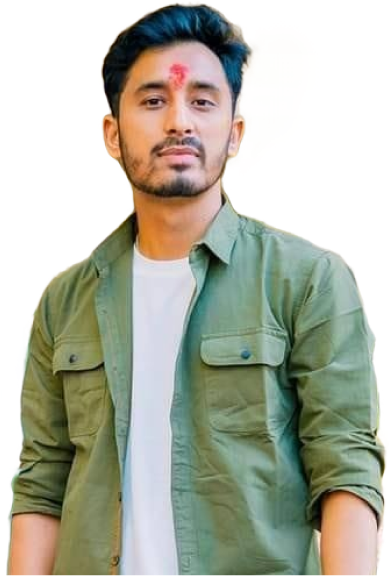
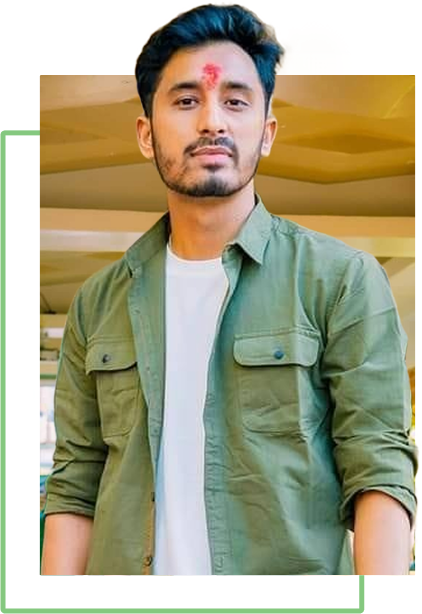
Fixed main image and navbar

diff --git a/src/sections/Navbar/Navbar.tsx b/src/sections/Navbar/Navbar.tsx
@@ -6,9 +6,11 @@ import NavLinks, { allCategory } from '@/sections/Navbar/NavLinks/NavLinks';
 import { HamburgerIcon } from '@/assets/svg';
 import useScreenSize from '@/hook/useScreenSize';
 import Link from 'next/link';
+import { useState } from 'react';
 
 export default function Navbar() {
 	const { isMobileScreen } = useScreenSize();
+	const [showMenu, setShowMenu] = useState(false);
 
 	return (
 		<div className="navbar z-20 w-screen justify-between bg-white text-neutral h-24">
@@ -27,20 +29,36 @@ export default function Navbar() {
 			</div>
 			{isMobileScreen ?
 				<div className="dropdown">
-					<label tabIndex={0} className="btn btn-ghost lg:hidden">
+					<button onClick={() => setShowMenu(!showMenu)} className="btn btn-ghost lg:hidden">
 						<HamburgerIcon />
-					</label>
-					<ul tabIndex={0} className="menu menu-sm dropdown-content bg-white absolute right-0 mt-3 z-20 p-2 shadow rounded-box w-52">
-						{allCategory?.map((category: any, i: number) => {
-							return <li><Link href={`/#${category?.toLowerCase()}`}>{category}</Link></li>
-						})}
-					</ul>
+					</button>
 				</div> :
 				<NavLinks />
 			}
 			{!isMobileScreen && <div className="pr-8">
 				<HireMeButton />
 			</div>}
+			{showMenu && (
+				<div className='absolute h-screen w-screen top-0 left-0 bg-white flex flex-col p-8 gap-8' onClick={() => setShowMenu(!showMenu)}>
+					<div
+						className="text-secondary"
+						style={{
+							display: 'flex',
+							alignItems: 'center',
+							justifyContent: 'space-evenly',
+							fontSize: '24px',
+						}}
+					>
+						<Image alt="logo" src='/images/logo.jpg' height={200} width={200} className="h-20 w-32" />
+					</div>
+					<ul tabIndex={0} className="bg-white text-lg w-full flex flex-col gap-3">
+						{allCategory?.map((category: any, i: number) => {
+							return <Link href={`/#${category?.toLowerCase()}`}><li className='hover:bg-slate-100 p-2 cursor-pointer'>{category}</li></Link>
+						})}
+					</ul>
+					<HireMeButton />
+				</div>
+			)}
 		</div>
 	);
 }

diff --git a/src/sections/Home/Hero/Hero.tsx b/src/sections/Home/Hero/Hero.tsx
@@ -11,24 +11,13 @@ export default function Hero() {
 
 	const renderMainImage = () => {
 		return (
-			<div className='relative w-full scale-75 flex justify-center h-[350px] -ml-2 md:scale-100 md:-ml-8 md:px-24'>
-				<div className='border-primary border-2 absolute h-96 w-72 md:top-16 -ml-4 md:-ml-12 lg:ml-0 lg:left-16 -z-1'></div>
-				{isMobileScreen ? null : <div className='h-80 w-72 absolute md:relative' style={{
-					maxWidth: '100%',
-					paddingLeft: '0px',
-					left: isMobileScreen ? '78px' : undefined,
-					top: isMobileScreen ? '-72px' : undefined,
+			<div className='relative w-full scale-75 flex justify-center h-[350px] md:scale-100 md:px-24'>
+				<div className='h-80 w-72' style={{
+					left: isMobileScreen ? '40px' : undefined,
+					top: isMobileScreen ? '-40px' : undefined,
 					zIndex: 6
 				}}>
 					<Image src={'/images/Profile.png'} alt="Profile" width={1350} height={1000} />
-				</div>}
-				<div className='absolute lg:h-80 w-72' style={{
-					top: isMobileScreen ? '-30px' : '42.5px',
-					right: isMobileScreen ? '2.5px' : undefined
-				}}>
-					<Image src={'/images/bg.png'} alt="Profile" width={1000} height={800} style={{
-						maxWidth: '100%',
-					}} />
 				</div>
 				{isMobileScreen ? null :
 					<div className='flex gap-8 flex-col absolute items-center right-0 top-28 text-base text-primary'>

diff --git a/src/sections/Home/MyJourney/MyJourney.tsx b/src/sections/Home/MyJourney/MyJourney.tsx
@@ -39,15 +39,15 @@ export default function MyJourney() {
 			<div className='flex flex-col items-center my-12'>
 				<p className="text-4xl text-center text-[#333333] font-bold lg:w-156">My Professional Growth Story</p>
 			</div>
-			<div className="flex overflow-x-auto scrollbar-hide h-[460px] gap-4 mx-4 lg:mx-20">
+			<div className="flex overflow-x-auto scrollbar-hide h-[488px] gap-4 mx-4 lg:mx-20">
 				<div className='flex justify-center gap-5' style={{
-					height: '420px',
+					height: '447px',
 					borderBottom: '1px solid #D1D1D1'
 				}}>
 					{stats?.map((stat, index) =>
 						<div key={`stats-${index}`} className="h-96 text-center" style={{ width: '360px' }}>
-							<div className='h-48 bg-cover' style={{ backgroundImage: `url(${stat.image})` }}></div>
-							<div className='h-36 py-4 px-2 lg:px-8'>
+							<div className='h-52 bg-cover' style={{ backgroundImage: `url(${stat.image})` }}></div>
+							<div className='h-40 py-4 px-2 lg:px-8'>
 								<p className='text-md leading-5 mb-2 font-bold text-center h-[41px] overflow-auto'>{stat?.title}</p>
 								<p className='text-sm text-justify h-[100px] overflow-auto'>{stat?.description}</p>
 							</div>

diff --git a/src/components/Button/HireMeButton.tsx b/src/components/Button/HireMeButton.tsx
@@ -3,12 +3,9 @@
 import Link from 'next/link';
 
 export default function HireMeButton() {
-
 	return (
-		<div className="dropdown dropdown-end">
-			<label className="btn hover:bg-transparent btn-ghost">
-				<Link href="/#contact" className="btn btn-ghost border text-neutral border-primary text-sm p-0 lg:py-2 lg:px-6 lg:text-sm cursor-pointer hover:bg-primary hover:text-white">Hire Me</Link>
-			</label>
-		</div>
+		<Link href="/#contact" className="btn btn-ghost border h-14 border-primary cursor-pointer text-neutral text-sm w-full hover:bg-primary hover:text-white">
+			<p className="lg:py-2 lg:px-6 lg:text-lg">Hire Me</p>
+		</Link>
 	)
 }
